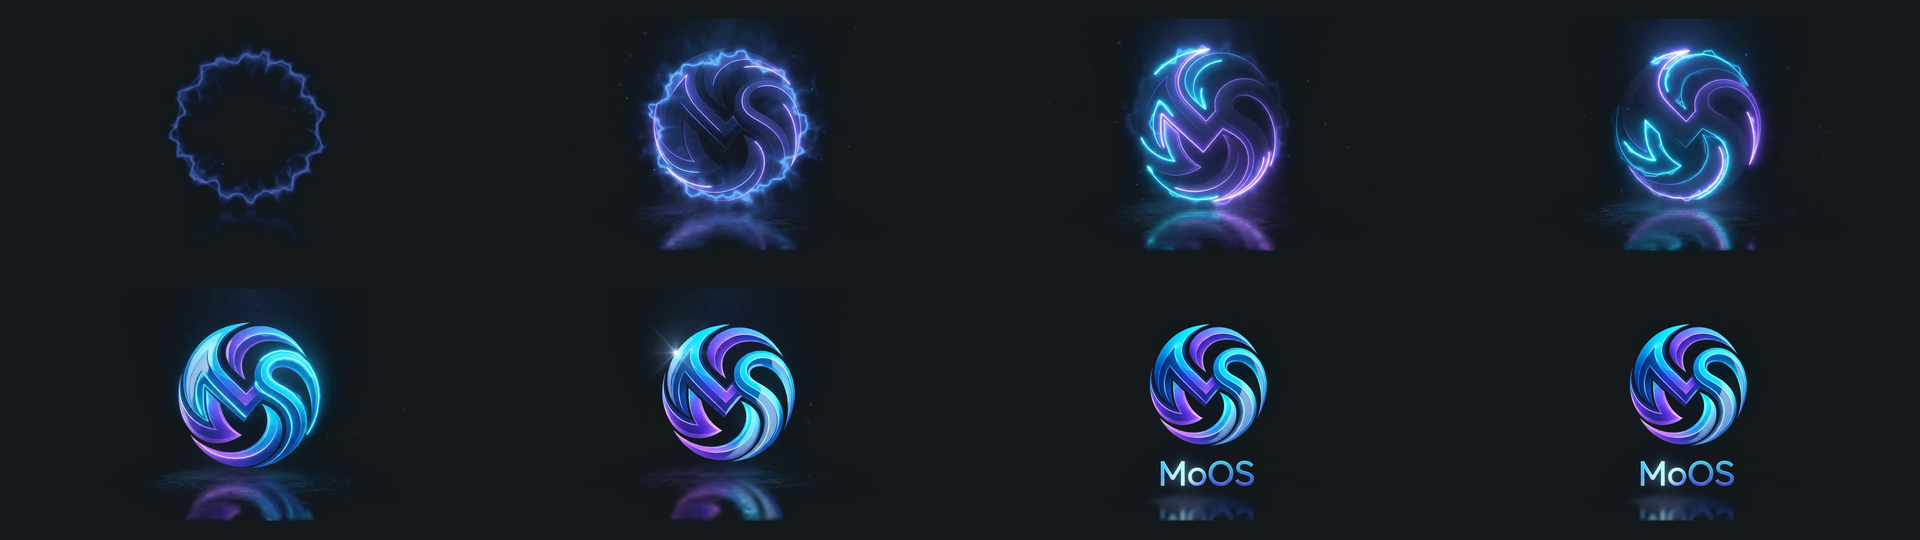
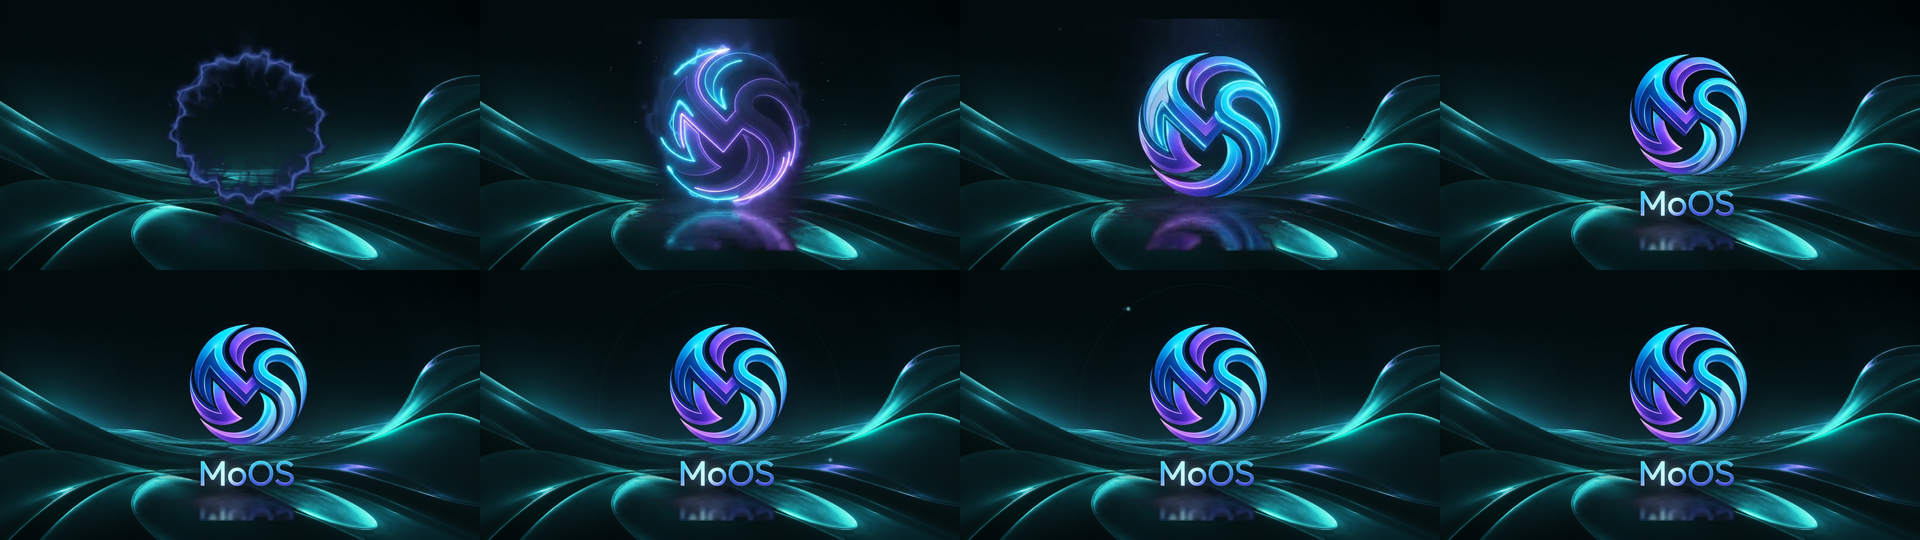
boot: carry the login landscape through Plymouth
Play the existing rendered MoOS sting over an exact, bounded derivative of the Graphite login scene so the retained splash hands off without replacing the visual ground. Gate the backdrop's provenance, contrast, geometry, memory budget, and final-initramfs presence across x86, ARM, and recovery paths.\n\nMeasured on the physical host before the change: Plymouth quit 3.7 seconds before the login compositor selected DRM. The existing --retain-splash bridge stays intact. Local just check and just build passed; the built 107 MiB initramfs contains the exact backdrop. A visible UEFI disk boot remains open because the local disk-image attempt was stopped at 99% filesystem use before QCOW2 export.

Changed region(s): [[0.0, 0.0296, 1.0, 0.5037], [0.0, 0.5333, 1.0, 1.0]]

diff --git a/artwork/preview_boot_animation.py b/artwork/preview_boot_animation.py
@@ -29,17 +29,19 @@ USAGE
 from __future__ import annotations
 
 import argparse
+import math
 import pathlib
 import re
 import sys
 
-from PIL import Image
+from PIL import Image, ImageOps
 
 ROOT = pathlib.Path(__file__).resolve().parent.parent
 THEME = ROOT / "system_files/usr/share/plymouth/themes/moos"
 SCRIPT = THEME / "moos.script"
+BACKDROP = THEME / "boot-backdrop.png"
 
-# The UI2 canvas token moos.script pins as its ground.
+# The UI2 canvas token moos.script pins beneath the shared login backdrop.
 GRAPHITE = (20, 25, 28)
 
 
@@ -49,7 +51,10 @@ def load_constants() -> dict[str, float]:
     text = SCRIPT.read_text(encoding="utf-8")
     found = {k: float(v) for k, v in re.findall(
         r"^\s*([A-Za-z_][A-Za-z0-9_]*)\s*=\s*(-?[0-9]*\.?[0-9]+)\s*;", text, re.MULTILINE)}
-    needed = ["INTRO_COUNT", "INTRO_HOLD", "INTRO_ASPECT", "CUE_DELAY"]
+    needed = [
+        "INTRO_COUNT", "INTRO_HOLD", "INTRO_ASPECT", "CUE_DELAY",
+        "BACKDROP_W", "BACKDROP_H",
+    ]
     missing = [n for n in needed if n not in found]
     if missing:
         sys.exit(f"FATAL: moos.script no longer defines {', '.join(missing)} — "
@@ -101,32 +106,73 @@ def main() -> int:
     sx, sy = int((w - stage_w) / 2), int((h - stage_h) / 2)
     size = (int(stage_w), int(stage_h))
 
+    if not BACKDROP.is_file():
+        sys.exit(f"FATAL: {BACKDROP} is missing — run artwork/generate_boot_backdrop.py")
+
     intro = [Image.open(p).convert("RGBA").resize(size, Image.LANCZOS) for p in fs]
+    backdrop = ImageOps.fit(
+        Image.open(BACKDROP).convert("RGBA"), (w, h), method=Image.LANCZOS
+    )
+
+    glow_size = int(h * 1.05)
+    ring_size = int(h * 1.02)
+    head_size = int(h * 0.075)
+    ring_radius = ring_size * 0.44
+    glow = Image.open(THEME / "glow.png").convert("RGBA").resize(
+        (glow_size, glow_size), Image.LANCZOS
+    )
+    ring = Image.open(THEME / "ring.png").convert("RGBA").resize(
+        (ring_size, ring_size), Image.LANCZOS
+    )
+    head = Image.open(THEME / "head.png").convert("RGBA").resize(
+        (head_size, head_size), Image.LANCZOS
+    )
 
     def compose(layers) -> Image.Image:
         f = Image.new("RGBA", (w, h), GRAPHITE + (255,))
-        for img, op in layers:
+        f.alpha_composite(backdrop)
+        for img, op, xy in layers:
             if op > 0.002:
-                f.alpha_composite(with_opacity(img, op), (sx, sy))
+                f.alpha_composite(with_opacity(img, op), xy)
         return f
 
     hold = int(c["INTRO_HOLD"])
     gif: list[Image.Image] = []
     strip: list[Image.Image] = []
-    n_last = len(intro) - 1
-    marks = {0, 4, 9, 14, 19, 24, n_last}
+    cue_delay = int(c["CUE_DELAY"])
+    # Long enough to show that a slow boot remains alive, while still keeping
+    # the preview compact. Plymouth itself keeps running until userspace wins.
+    preview_ticks = cue_delay + 125
+    marks = {0, 18, 38, 62, cue_delay, cue_delay + 45, preview_ticks - 1}
 
-    for n, im in enumerate(intro):
-        f = compose([(im, 1.0)])
-        if n in marks:
-            strip.append(f)
-        for _ in range(hold):
-            gif.append(f)
-    # The splash simply holds its last frame from here on.
-    rest = compose([(intro[-1], 1.0)])
+    for tick in range(preview_ticks):
+        frame_index = min(len(intro) - 1, tick // hold)
+        layers = []
+        if tick > cue_delay:
+            t = (tick - cue_delay) / 50.0
+            into = max(0.0, min(1.0, t))
+            glow_opacity = into * (
+                0.16 + 0.05 * math.sin(t * 2 * math.pi / 4.5)
+            )
+            angle = math.radians(t * 130 - 90)
+            hx = int(w / 2 + ring_radius * math.cos(angle) - head_size / 2)
+            hy = int(h / 2 + ring_radius * math.sin(angle) - head_size / 2)
+            layers.extend([
+                (glow, glow_opacity, ((w - glow_size) // 2, (h - glow_size) // 2)),
+                (ring, into * 0.35, ((w - ring_size) // 2, (h - ring_size) // 2)),
+                (head, into * 0.85, (hx, hy)),
+            ])
+        layers.append((intro[frame_index], 1.0, (sx, sy)))
+        frame = compose(layers)
+        if tick in marks:
+            strip.append(frame)
+        if tick % 4 == 0:
+            gif.append(frame)
+
+    # quit_callback hides every moving cue and pins this deliberately composed
+    # handoff frame; include it as the eighth storyboard panel.
+    rest = compose([(intro[-1], 1.0, (sx, sy))])
     strip.append(rest)
-    for _ in range(30):
-        gif.append(rest)
 
     cw, ch = w // 4, h // 4
     sheet = Image.new("RGB", (cw * 4, ch * 2), GRAPHITE)
@@ -136,14 +182,14 @@ def main() -> int:
     sheet.save(out / "boot-animation-filmstrip.png")
     rest.convert("RGB").save(out / "boot-animation-settled.png")
 
-    small = [g.convert("RGB").resize((w // 3, h // 3), Image.LANCZOS) for g in gif[::2]]
+    small = [g.convert("RGB").resize((w // 4, h // 4), Image.LANCZOS) for g in gif]
     small[0].save(out / "boot-animation.gif", save_all=True, append_images=small[1:],
-                  duration=40, loop=0, optimize=True)
+                  duration=80, loop=0, optimize=True)
 
     total = (len(intro) * hold) / 50.0
     print(f"stage     : {int(stage_w)}x{int(stage_h)} at ({sx}, {sy}) on {w}x{h}")
     print(f"intro     : {len(intro)} frames x {hold} refreshes = {total:.2f} s to rest")
-    print(f"cue after : {c['CUE_DELAY']/50.0:.1f} s (slow boots only)")
+    print(f"cue after : {c['CUE_DELAY']/50.0:.1f} s (slow boots only; included in preview)")
     print(f"filmstrip : {out/'boot-animation-filmstrip.png'}")
     print(f"settled   : {out/'boot-animation-settled.png'}   <- the frame --retain-splash holds")
     print(f"gif       : {out/'boot-animation.gif'}")

diff --git a/tests/test_boot_splash_polish.py b/tests/test_boot_splash_polish.py
@@ -30,9 +30,16 @@ import struct
 import unittest
 from pathlib import Path
 
+from PIL import Image, ImageChops, ImageStat
+
 ROOT = Path(__file__).resolve().parents[1]
 THEME = ROOT / "system_files/usr/share/plymouth/themes/moos"
 SCRIPT = THEME / "moos.script"
+BACKDROP = THEME / "boot-backdrop.png"
+LOGIN_SCENE = (
+    ROOT
+    / "system_files/usr/share/wallpapers/MoOSUI2Graphite/contents/images_dark/3840x2160.jpg"
+)
 
 
 def png_size(path: Path) -> tuple[int, int]:
@@ -98,6 +105,48 @@ class BootSplashTests(unittest.TestCase):
                 self.assertTrue((THEME / name).is_file(),
                                 f"moos.script loads {name}, which is not in the theme — "
                                 f"Plymouth would abort this splash to its text fallback")
+
+    def test_boot_backdrop_is_the_login_scene_not_an_unrelated_black_plate(self) -> None:
+        self.assertEqual(png_size(BACKDROP), (1920, 1080))
+        with Image.open(LOGIN_SCENE) as source, Image.open(BACKDROP) as actual:
+            expected = source.convert("RGB").resize(
+                (1920, 1080), Image.Resampling.LANCZOS
+            )
+            actual_rgb = actual.convert("RGB")
+            difference = ImageChops.difference(expected, actual_rgb)
+            self.assertIsNone(
+                difference.getbbox(),
+                "boot-backdrop.png drifted from the exact Graphite login scene; "
+                "regenerate it with artwork/generate_boot_backdrop.py",
+            )
+        self.assertLess(
+            BACKDROP.stat().st_size / 1048576,
+            4,
+            "the boot backdrop adds more than 4 MiB to every initramfs",
+        )
+        luminance = actual_rgb.convert("L")
+        self.assertGreater(
+            ImageStat.Stat(luminance).mean[0],
+            10,
+            "the boot backdrop regressed to a black-looking screen",
+        )
+        low, high = luminance.getextrema()
+        self.assertGreaterEqual(
+            high - low,
+            15,
+            "the boot backdrop lost the visible depth required by the visual gate",
+        )
+
+    def test_backdrop_is_scaled_once_outside_the_refresh_loop(self) -> None:
+        text = script_text()
+        setup, refresh = text.split("fun refresh()", 1)
+        self.assertIn('Image("boot-backdrop.png").Scale(', setup)
+        self.assertNotIn("boot-backdrop.png", refresh)
+        self.assertIn(
+            "backdrop_scale = fmax(sw / BACKDROP_W, sh / BACKDROP_H)", setup
+        )
+        self.assertIn("backdrop_sprite.SetX(cx - backdrop_w / 2)", setup)
+        self.assertIn("backdrop_sprite.SetY(cy - backdrop_h / 2)", setup)
 
     def test_intro_count_matches_the_frames_on_disk(self) -> None:
         self.assertEqual(int(scalar("INTRO_COUNT")), len(intro_frames()),

diff --git a/artwork/generate_boot_backdrop.py b/artwork/generate_boot_backdrop.py
@@ -1,0 +1,36 @@
+#!/usr/bin/env python3
+"""Build the lightweight Plymouth backdrop from the login scene.
+
+The first graphical boot surface and Plasma Login Manager deliberately share
+the Graphite dark wallpaper. Plymouth cannot afford to decode the 4K master
+inside the initramfs, so it ships a deterministic 1920x1080 derivative. The
+composition is unchanged: at handoff the background remains in place and only
+the authentication surface replaces the boot mark.
+
+Deterministic: same master + Pillow version -> same pixels. No randomness,
+timestamps, colour effects, or generated artwork are involved.
+"""
+
+from pathlib import Path
+
+from PIL import Image
+
+
+ROOT = Path(__file__).resolve().parent.parent
+SOURCE = (
+    ROOT
+    / "system_files/usr/share/wallpapers/MoOSUI2Graphite/contents/images_dark/3840x2160.jpg"
+)
+OUTPUT = ROOT / "system_files/usr/share/plymouth/themes/moos/boot-backdrop.png"
+SIZE = (1920, 1080)
+
+
+def main() -> None:
+    with Image.open(SOURCE) as source:
+        backdrop = source.convert("RGB").resize(SIZE, Image.Resampling.LANCZOS)
+    backdrop.save(OUTPUT, format="PNG", optimize=True)
+    print(f"wrote {OUTPUT} ({SIZE[0]}x{SIZE[1]})")
+
+
+if __name__ == "__main__":
+    main()

diff --git a/tests/verify_user_experience.py b/tests/verify_user_experience.py
@@ -4377,6 +4377,19 @@ require('omit_dracutmodules+=" nfs "' in build and build.count('--omit "nfs"') >
         "its pre-udev hook starts rpcbind/rpc.statd on every local OSTree boot and logs hard "
         "state-directory errors before switch-root")
 
+# Every edition builds its initramfs through a different shell path. The shared
+# boot/login scene is real only if each finished archive contains the backdrop;
+# a source-only check would leave ARM or recovery booting the old flat plate.
+require(
+    "for _spr in boot-backdrop ring head glow" in build,
+    "build_files/build.sh does not prove boot-backdrop.png reached the final initramfs",
+)
+for build_script in ("build_files/build-arm.sh", "build_files/build-arm-recovery.sh"):
+    require(
+        "plymouth/themes/moos/boot-backdrop.png" in read(build_script),
+        f"{build_script} does not prove boot-backdrop.png reached the final initramfs",
+    )
+
 # ── The kde-settings profile must name the theme the image actually defaults to ─
 #
 # /usr/share/kde-settings/kde-profile/default/xdg is the layer AGENTS.md blames for the Breeze

diff --git a/system_files/usr/share/plymouth/themes/moos/README.md b/system_files/usr/share/plymouth/themes/moos/README.md
@@ -1,9 +1,10 @@
 # The MoOS boot splash
 
-A Plymouth **script** theme that plays the owner's rendered MoOS logo sting as
-the boot animation: a plasma ring ignites, the mark's arcs tear out of it and
-rotate into place, the solid mark lands on its reflective floor, and the MoOS
-wordmark fades up. It then holds that last frame until the desktop takes over.
+A Plymouth **script** theme that plays the owner's rendered MoOS logo sting over
+the same Graphite glass scene used by Plasma Login Manager: a plasma ring
+ignites, the mark's arcs tear out of it and rotate into place, the solid mark
+lands on its reflective floor, and the MoOS wordmark fades up. It then holds
+that last frame until the login surface takes over without replacing the ground.
 
 Nothing here is hand-authored motion. Everything in this directory is generated,
 and the generators are in `artwork/`.
@@ -14,6 +15,7 @@ and the generators are in `artwork/`.
 |---|---|
 | `moos.script` | The whole animation. Plays the sequence, holds the last frame, composes the frame the handoff leaves on screen, and draws the LUKS/message overlays. |
 | `moos.plymouth` | The theme descriptor. Selects the `script` module. |
+| `boot-backdrop.png` | A lightweight 1080p derivative of the exact 4K Graphite login wallpaper. Scaled once to cover, never stretched. |
 | `intro1.png` … `intro32.png` | The sequence, cut from the render. ~1.3 s at 25 fps. |
 | `logo.png` | The mark on its own. **Not drawn by the splash.** `build.sh` copies it over Fedora's `spinner/watermark.png` and gates that the two match — that is what keeps the Fedora wordmark out of the fallback splash. |
 | `glow.png`, `ring.png`, `head.png` | The slow-boot cue only (see below). A fast boot never shows them. |
@@ -21,6 +23,7 @@ and the generators are in `artwork/`.
 ## Rebuilding it
 
 ```sh
+python artwork/generate_boot_backdrop.py  # exact login-scene derivative
 python artwork/build_boot_frames.py      # the sequence, from the source video
 python artwork/generate_boot_splash.py   # logo + the slow-boot cue sprites
 python artwork/preview_boot_animation.py # look at it without booting
@@ -48,7 +51,10 @@ the displayed frame changes, and only one scaled copy exists at a time.
 
 **The stored frame size is a memory budget, not a quality knob.** Every frame is
 decoded into RAM in the initramfs on every boot. It is currently ~58 MB decoded
-and ~11 MB on disk; `test_intro_frames_fit_the_initramfs_budget` pins both.
+and ~11 MB on disk; `test_intro_frames_fit_the_initramfs_budget` pins both. The
+backdrop is kept at 1080p (under 4 MiB encoded) and scaled once outside the
+refresh loop; the gate also proves that it remains an exact downsample of the
+login scene rather than drifting into a separate illustration.
 
 ## The handoff
 
@@ -59,14 +65,15 @@ on a cold boot. `quit_callback()` therefore jumps to the sequence's resting fram
 and hides everything that moves, so the retained image is a composed still rather
 than a comet frozen mid-orbit, which reads as a hang.
 
-The ground is flat `#14191C`, the UI2 canvas token the desktop opens on. The
-render's own near-black background was keyed to transparency when the frames were
-cut, precisely so the splash could sit on that colour: splash → first desktop
-frame is one continuous colour with no hue flip.
+The fail-safe ground is flat `#14191C`; above it, `boot-backdrop.png` is the same
+Graphite glass landscape configured in `/usr/lib/plasmalogin/defaults.conf`.
+The render's near-black background was keyed to transparency when the frames
+were cut, so the energy and mark live inside that landscape. At handoff the
+background does not change; the authentication surface replaces only the mark.
 
 ## The slow-boot cue
 
-A fast boot is over before it appears. After ~3.8 s — a first boot, an fsck, a
+A fast boot is over before it appears. After ~2.4 s — a first boot, an fsck, a
 cloud instance — a soft breath and a faint head running a ring fade in, so a long
 boot does not present a still image that reads as a hang.
 

diff --git a/PROJECT_STATE.md b/PROJECT_STATE.md
@@ -1,5 +1,39 @@
 # MoOS — current project state
 
+**Boot visual continuity source pass (2026-09-08):** the physical NVIDIA host's
+last boot measured 44.377 s end to end: 10.329 s firmware + 5.932 s loader +
+6.073 s kernel + 4.151 s initrd + 17.890 s userspace. Plymouth started at
+kernel-monotonic 8.815 s and quit at 21.171 s; the login compositor selected its
+DRM backend at 24.855 s. The existing `plymouth quit --retain-splash` therefore
+covers a measured ~3.7 s handoff that would otherwise be black. The remaining
+visual defect was the surface itself: the rendered logo sting played on a flat,
+almost-black canvas, then the login manager replaced the whole frame with its
+Graphite glass landscape.
+
+Source now plays the existing 32-frame energy/mark animation over
+`boot-backdrop.png`, a deterministic 1920x1080 downsample of the **exact**
+Graphite-dark wallpaper already configured for Plasma Login Manager. The
+backdrop is 864 KiB encoded, is scaled once outside Plymouth's refresh loop,
+contains zero pure-black pixels, and stays visible in the retained handoff; the
+login frame therefore replaces the mark/authentication layer without replacing
+the ground. The preview now renders the complete slow-boot cue after 2.4 s and
+the explicit quit frame, not only the 1.28 s intro. The reviewed 16:9 and 4:3
+storyboards are `artwork/generated/boot-animation-filmstrip.png` and the
+temporary scale preview; horizontal scans on the 1080p settled frame measured
+127–231 luminance steps across the glass/brand rows (design floor: 15).
+
+Repo gates cover exact backdrop provenance, 4 MiB encoded ceiling, cover
+geometry, one-time scaling, missing assets, BOM/parser safety, and final-initrd
+presence in x86, ARM and recovery build paths. `just check` passed all 123
+workflow gates, and a clean local `just build` produced
+`localhost/moos:latest` with `bootc container lint` passing. Independent
+built-image inspection found the exact source SHA-256
[1 lines of base64/hex data omitted]
+in the image and its 107 MiB final initramfs, with `Theme=moos` and the
+`--retain-splash` override active. This is **built-image proof**, not a visible
+boot proof: a UEFI VM/hardware capture remains required before merge or release,
+and firmware-controlled pixels before Plymouth remain outside the OS renderer.
+
 **Current bounded x86 repair (2026-09-07):** run 769 fails all three editions
 because `55737753` applies ARM's real-directory `/usr/local/sbin` repair to
 Atomic's dangling `/usr/local -> ../var/usrlocal` link. Candidate work on

diff --git a/MOOS_ROADMAP.md b/MOOS_ROADMAP.md
@@ -40,8 +40,14 @@ theme layer. Order matters:
    inside Flatpak, and retire already-merged remote branches after proof.
 2. **Boot-to-login experience:** continue the single MoOS visual sequence from
    Plymouth to the login, lock and logout surfaces. Source now includes bounded
-   boot overlays and the responsive clock/calendar; the next closure is measured
-   signed-artifact frames with no fallback flash across scale and locale.
+   boot overlays and the responsive clock/calendar. The 2026-09-08 source pass
+   places the rendered sting over the exact Graphite login landscape and retains
+   that ground through the measured Plymouth→login compositor gap; 16:9 and 4:3
+   previews plus source/initramfs gates are green. A clean local x86 image build
+   also passed and independently proved the exact backdrop inside the final
+   107 MiB initramfs. The next closure remains measured signed-artifact frames
+   with no fallback flash across scale and locale; a built image without a
+   visible UEFI boot does not close the release item.
 3. **Simple daily use:** one obvious place for updates, recovery, apps, Remote,
    language and theme. Keep technical logs collapsed at rest, make every action
    explainable, and preserve Arabic/RTL as a first-class path. The Remote control
